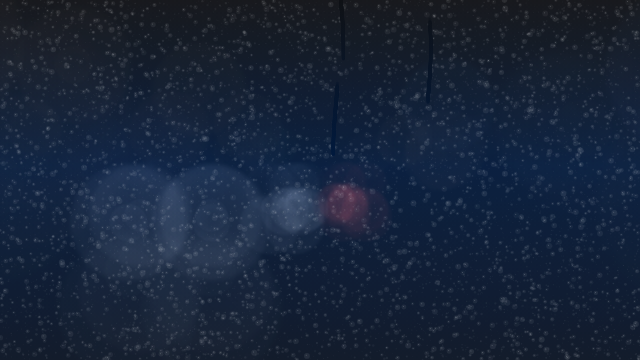
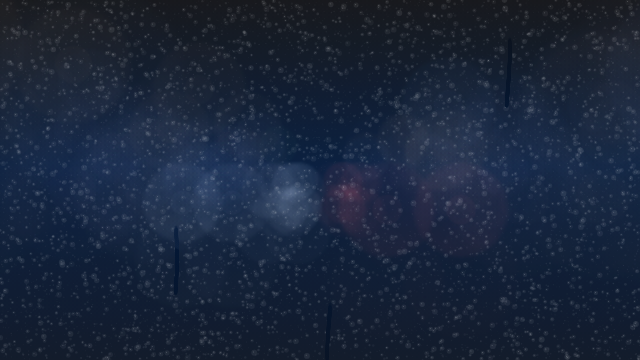
Draft: round 3 tuning of spacetime, city and rain

diff --git a/effects/fabric-grid/index.js b/effects/fabric-grid/index.js
@@ -90,12 +90,12 @@ const SCENE = {
     const at = pointer.on ? toPlane(env, pointer.x * w, pointer.y * h) : null;
     if (at && !state.hole) {
       state.ball = state.ball ? [mix(state.ball[0], at[0], 0.15), mix(state.ball[1], at[1], 0.15)] : at;
-    } else if (!at) state.ball = null;
+    } else state.ball = null;
     if (state.ball) masses.push({x: state.ball[0], z: state.ball[1], m: 0.55, r: 0.42, kind: 'sun'});
     if (state.hole) {
       state.hole.mass = Math.min(1, state.hole.mass + 0.005);
       if (at) { state.hole.x = mix(state.hole.x, at[0], 0.1); state.hole.z = mix(state.hole.z, at[1], 0.1); }
-      masses.push({x: state.hole.x, z: state.hole.z, m: 0.5 + state.hole.mass * 1.2, r: 0.1 + state.hole.mass * 0.2, kind: 'hole'});
+      masses.push({x: state.hole.x, z: state.hole.z, m: 0.45 + state.hole.mass * 0.5, r: 0.14 + state.hole.mass * 0.18, kind: 'hole'});
     }
     state.waves = state.waves.filter((wave) => t - wave.born < 7);
     // Height of the fabric: a round well under each mass, and rings of passing waves.
@@ -104,8 +104,9 @@ const SCENE = {
       // A funnel: deep and narrow at the mass, flat again a few cells away, like the textbook picture.
       for (const m of masses) { const d = Math.hypot(x - m.x, z - m.z); if (d < 3.2) y -= m.m * (1 / (d + 0.28) - 1 / 3.48); }
       for (const wave of state.waves) {
-        const age = t - wave.born, d = Math.hypot(x - wave.x, z - wave.z), front = age * 2.2, band = d - front;
-        if (Math.abs(band) < 1.4) y += Math.sin(band / 1.4 * Math.PI * 2) * Math.exp(-(band * band) / 0.5) * 0.28 * wave.strength * (1 - age / 7);
+        // A ring: a smooth crest and trough travelling out from the point, fading as it spreads.
+        const age = t - wave.born, d = Math.hypot(x - wave.x, z - wave.z), band = d - age * 2.2;
+        if (Math.abs(band) < 2.4) y += Math.sin(band * 2.2) * Math.exp(-(band * band) / 0.9) * 0.22 * wave.strength * (1 - age / 7) / (1 + age * 0.4);
       }
       return y * 0.85;
     };
@@ -115,13 +116,23 @@ const SCENE = {
     };
     const alpha = (scheme === 'light' ? 0.5 : 0.48) * k;
     const span = state.span;
+    // One path per run of segments of the same shade: the shade steps with distance and depth.
     const segment = (points) => {
+      let shade = -1;
       for (let i = 1; i < points.length; i += 1) {
         const [x0, y0, z0, d0] = points[i - 1], [x1, y1] = points[i];
-        const fade = Math.min(1, 7 / z0);
-        ctx.strokeStyle = rgba(mixc(tones.line, tones.deep, Math.min(1, d0 * 1.4)), alpha * fade * (1 + Math.min(1, d0) * 0.8));
-        ctx.beginPath(); ctx.moveTo(x0, y0); ctx.lineTo(x1, y1); ctx.stroke();
+        const next = Math.round(Math.min(1, 7 / z0) * 8) * 16 + Math.round(Math.min(1, Math.max(0, d0) * 1.4) * 8);
+        if (next !== shade) {
+          if (shade >= 0) ctx.stroke();
+          shade = next;
+          const fade = Math.floor(next / 16) / 8, deep = (next % 16) / 8;
+          ctx.strokeStyle = rgba(mixc(tones.line, tones.deep, deep), alpha * fade * (1 + deep * 0.6));
+          ctx.beginPath();
+          ctx.moveTo(x0, y0);
+        }
+        ctx.lineTo(x1, y1);
       }
+      if (shade >= 0) ctx.stroke();
     };
     const line = (fromX, fromZ, toX, toZ, steps) => {
       const points = [];
@@ -134,9 +145,9 @@ const SCENE = {
     };
     ctx.lineWidth = 1;
     const cell = state.cell;
-    for (let z = state.near; z <= state.far + 1e-6; z += cell) line(-span, z, span, z, Math.round(40 + span * 6));
+    for (let z = state.near; z <= state.far + 1e-6; z += cell) line(-span, z, span, z, Math.round(60 + span * 8));
     const across = Math.round(span * 2 / cell);
-    for (let i = 0; i <= across; i += 1) { const x = -span + i * (span * 2 / across); line(x, state.near, x, state.far, 90); }
+    for (let i = 0; i <= across; i += 1) { const x = -span + i * (span * 2 / across); line(x, state.near, x, state.far, 130); }
     // The bodies, drawn over the fabric, far ones first.
     for (const m of masses.sort((a, b) => b.z - a.z)) {
       const y = height(m.x, m.z) + m.r * 0.9;

diff --git a/effects/rain-glass/index.js b/effects/rain-glass/index.js
@@ -58,7 +58,7 @@ const SCENE = {
     const f = Math.max(h * 1.1, w * 0.55), cx = w * 0.5, horizon = h * 0.48;
     const lamps = [];
     for (let z = 3; z < 45; z += 3 + random() * 2.5) for (const side of [-1, 1]) if (random() < 0.8) lamps.push({X: side * (4 + random() * 3.5), Y: 2.4 + random() * 2.4, z, colour: random() < 0.8 ? 'lamp' : 'cool'});
-    const signs = Array.from({length: 18}, () => ({X: (random() < 0.5 ? -1 : 1) * (5 + random() * 4), Y: 0.6 + random() * 3, z: 3 + random() * 30, colour: ['sign', 'cool', 'lamp'][Math.floor(random() * 3)]}));
+    const signs = Array.from({length: 46}, () => ({X: (random() < 0.5 ? -1 : 1) * (4.5 + random() * 5), Y: 0.5 + random() * 3.5, z: 2.5 + random() * 28, colour: ['sign', 'cool', 'lamp'][Math.floor(random() * 3)]}));
     const n = Math.round(2 + env.values.density / 18);
     const toward = Array.from({length: n}, (_, i) => ({z: 2 + (i + random()) * 50 / n, speed: 7 + random() * 5, lane: -1.9 - random() * 1.6}));
     const away = Array.from({length: n}, (_, i) => ({z: 2 + (i + random()) * 50 / n, speed: 6 + random() * 5, lane: 1.9 + random() * 1.6}));
@@ -90,7 +90,8 @@ const SCENE = {
   release(env) { env.state.last = null; },
   draw(env, t) {
     const {ctx, w, h, tones, state, values, pointer} = env;
-    const k = values.intensity / 100, fogLevel = values.fog / 100;
+    // Many soft lights add up where they overlap, so each one is kept faint.
+    const k = values.intensity / 100 * 0.6, fogLevel = values.fog / 100;
     const dt = state.t === null ? 0 : Math.max(0, Math.min(0.05, t - state.t));
     state.t = t;
     // The traffic moves: towards us on the left, away on the right.
@@ -111,7 +112,7 @@ const SCENE = {
     }
     // A disc of light out of focus: the same light spread wider, so a bigger disc is a dimmer one.
     const bokeh = (c, scale, x, y, r, colour, a) => {
-      a *= Math.min(1, 26 / r);
+      a = Math.min(0.32, a * Math.min(1, 26 / r));
       if (a <= 0.01) return;
       const g = c.createRadialGradient(x * scale, y * scale, 0, x * scale, y * scale, r * scale);
       g.addColorStop(0, rgba(colour, a * 0.6));
@@ -130,13 +131,13 @@ const SCENE = {
       c.fillRect(0, 0, w * scale, h * scale);
     };
     // Far lights are fainter, so the many of them at the end of the street do not pile up into a glare.
-    const near = (z) => Math.min(1, 4 / z) ** 1.3;
+    const near = (z) => Math.min(1, 6 / z);
     // The street seen through cleared glass: soft but smaller lights, and their reflections on the wet road.
     street(ctx, 1);
     ctx.globalCompositeOperation = 'lighter';
     for (const light of lights) {
       const r = 2 + light.size * state.f / light.z;
-      bokeh(ctx, 1, light.p[0], light.p[1], r, light.colour, 0.6 * k * light.a * near(light.z));
+      bokeh(ctx, 1, light.p[0], light.p[1], r, light.colour, 0.85 * k * light.a * near(light.z));
       if (light.road) bokeh(ctx, 1, light.p[0], light.p[1] + r * 2.5, r * 1.3, light.colour, 0.12 * k * light.a);
     }
     // The street through fog: a half-size picture, so it comes out soft, with big bokeh.
@@ -146,7 +147,7 @@ const SCENE = {
     fr.globalCompositeOperation = 'lighter';
     for (const light of lights) {
       const r = 6 + (2 + light.size * state.f / light.z) * 2.8;
-      bokeh(fr, q, light.p[0], light.p[1], r, light.colour, 0.5 * k * light.a * near(light.z));
+      bokeh(fr, q, light.p[0], light.p[1], r, light.colour, 0.55 * k * light.a * near(light.z));
       if (light.road) bokeh(fr, q, light.p[0], light.p[1] + r * 1.4, r * 1.2, light.colour, 0.1 * k * light.a);
     }
     fr.globalCompositeOperation = 'source-over';

diff --git a/effects/city-lights/index.js b/effects/city-lights/index.js
@@ -90,7 +90,7 @@ const SCENE = {
     // Streets: the glow on the light layer, lamps as bright points along them.
     for (const s of streets) {
       const b = busy(s.x + s.w / 2, s.y + s.h / 2);
-      const strength = (s.width > 5 ? 0.42 : s.width > 3 ? 0.32 : 0.22) * (0.5 + b * 0.8);
+      const strength = (s.width > 5 ? 0.55 : s.width > 3 ? 0.4 : 0.26) * (0.5 + b * 0.8);
       l.fillStyle = rgba(tones.sodium, Math.min(1, strength));
       l.fillRect(s.x, s.y, s.w, s.h);
       const length = s.upright ? s.h : s.w, gap = s.width > 5 ? 7 : 11;
@@ -103,16 +103,16 @@ const SCENE = {
     }
     // Blocks: a park now and then, otherwise lots of buildings in one or two rows.
     const tree = (c, x, y, r) => {
-      c.fillStyle = rgba(mixc(tones.tree, tones.ground, 0.2));
+      c.fillStyle = rgba(mixc(tones.tree, tones.ground, 0.45));
       c.beginPath(); c.arc(x, y, r, 0, Math.PI * 2); c.fill();
-      c.fillStyle = rgba(mixc(tones.tree, tones.sodium, 0.12), 0.7);
+      c.fillStyle = rgba(mixc(tones.tree, tones.sodium, 0.18), 0.55);
       c.beginPath(); c.arc(x - r * 0.25, y - r * 0.25, r * 0.55, 0, Math.PI * 2); c.fill();
     };
     for (const b of blocks) {
       if (b.w < 6 || b.h < 6) continue;
       const quiet = busy(b.x + b.w / 2, b.y + b.h / 2);
       if (random() < 0.07 + (0.5 - quiet) * 0.12) {
-        m.fillStyle = rgba(mixc(tones.tree, tones.ground, 0.55));
+        m.fillStyle = rgba(mixc(tones.tree, tones.ground, 0.8));
         m.fillRect(b.x + 1, b.y + 1, b.w - 2, b.h - 2);
         const n = Math.round(b.w * b.h / 14);
         for (let i = 0; i < n; i += 1) tree(m, b.x + 2 + random() * (b.w - 4), b.y + 2 + random() * (b.h - 4), 1.2 + random() * 2);
@@ -169,7 +169,7 @@ const SCENE = {
     hz.filter = 'blur(4px)';
     hz.drawImage(light, 0, 0);
     m.globalCompositeOperation = 'lighter';
-    m.globalAlpha = 0.6;
+    m.globalAlpha = 0.4;
     m.drawImage(haze, 0, 0);
     m.globalAlpha = 1;
     m.drawImage(light, 0, 0);
